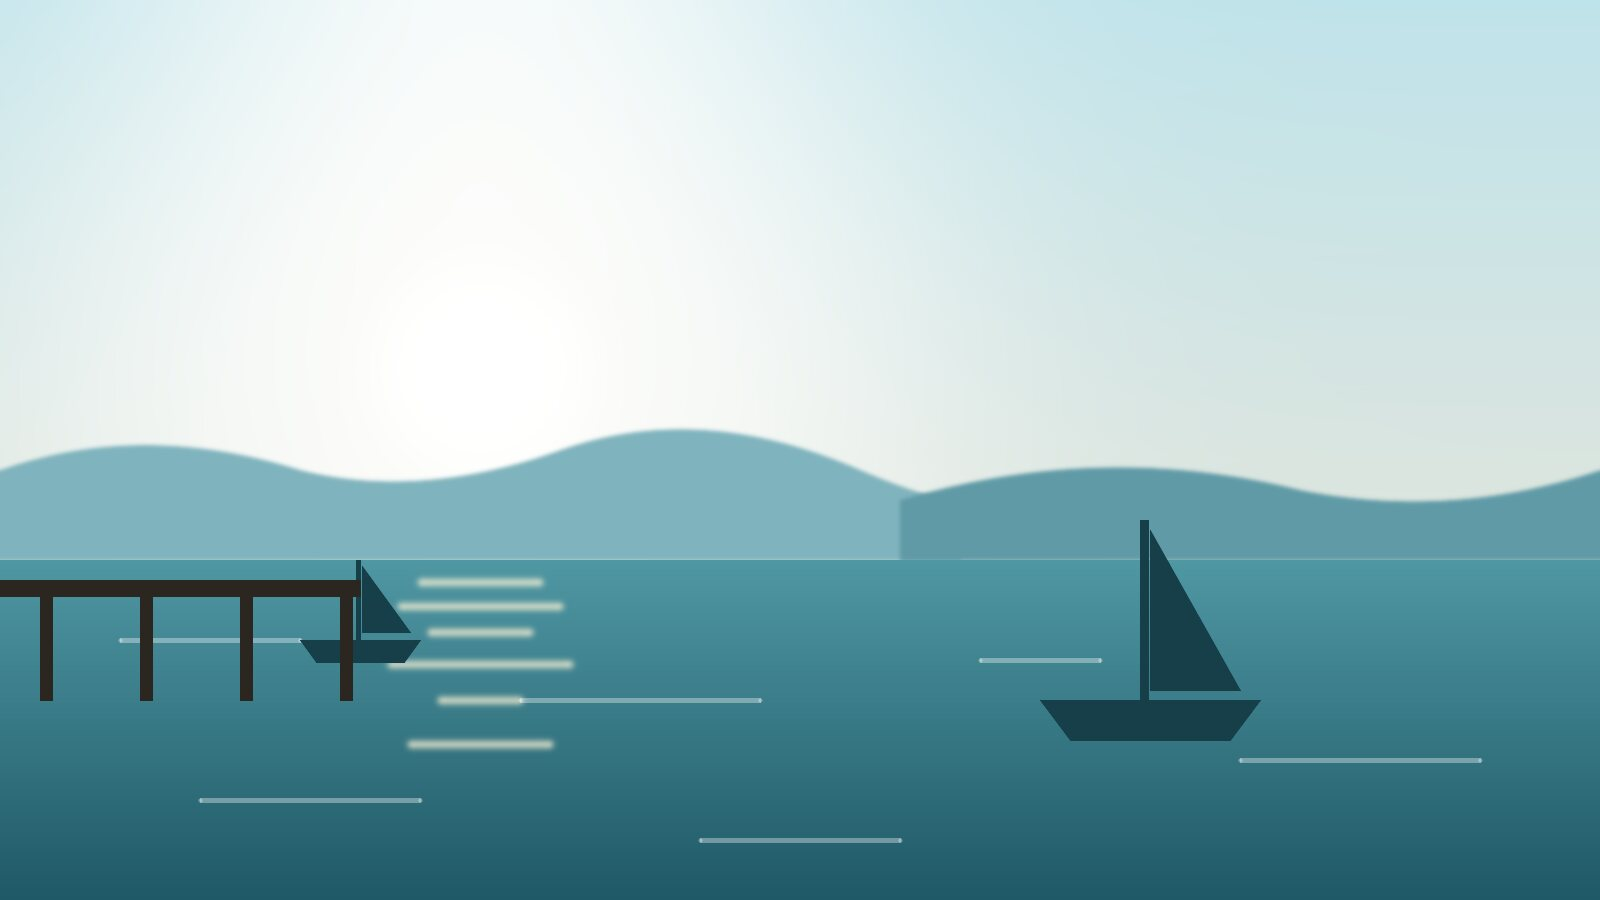
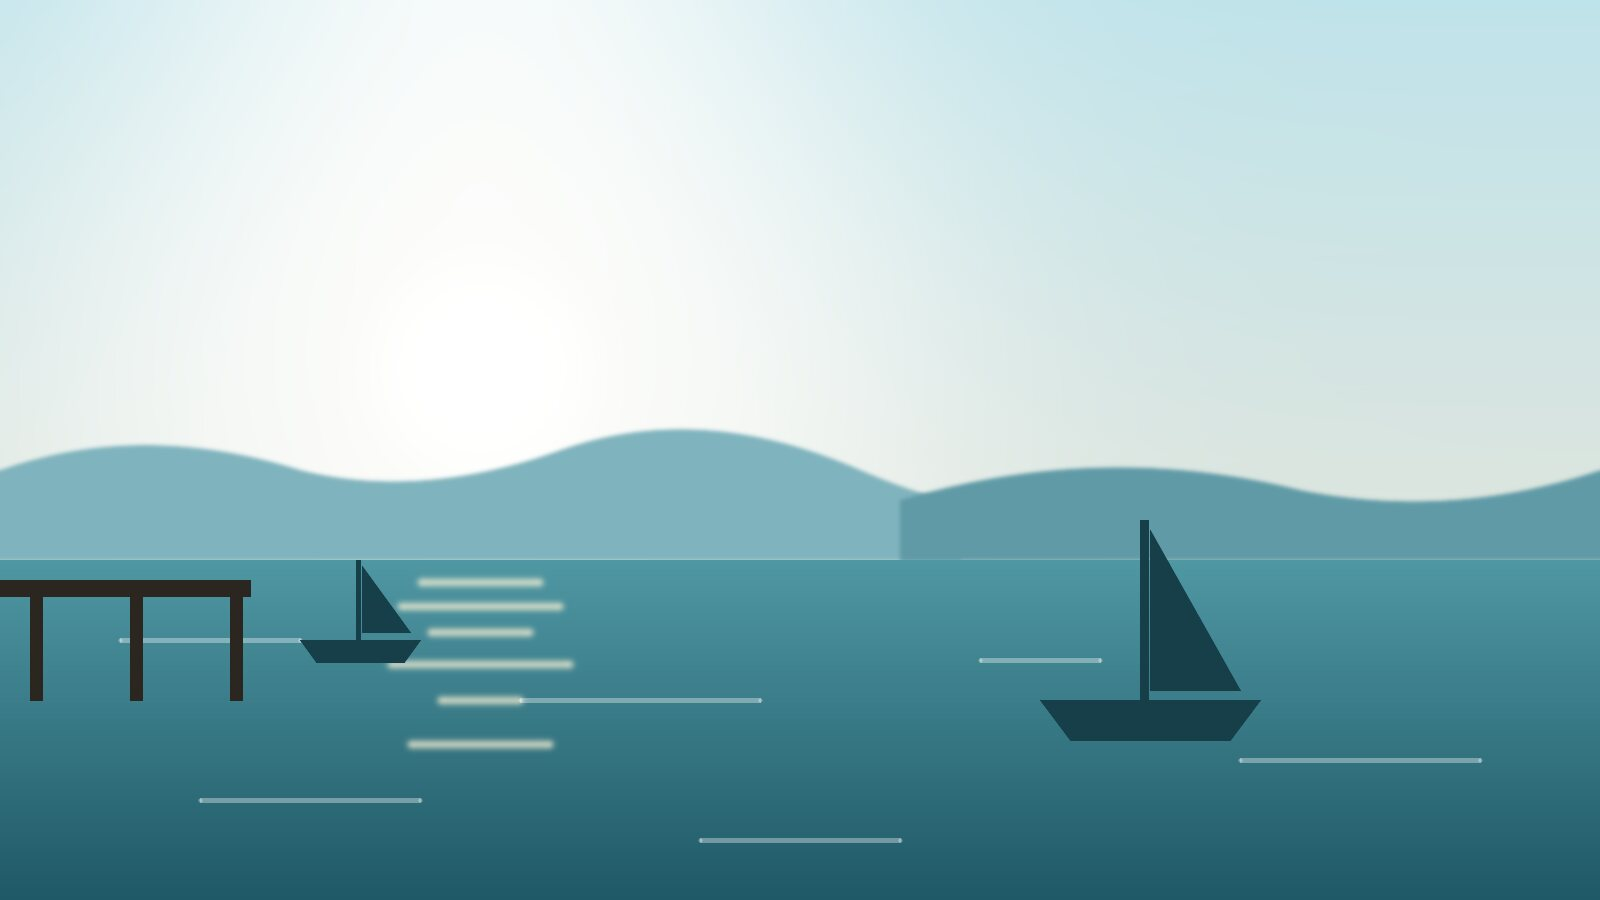
fix: load the preview agent as a module script

Changed region(s): [[0.125, 0.6222, 0.25, 0.7778], [0.0625, 0.6533, 0.0938, 0.7778], [0.0, 0.6533, 0.0312, 0.7778]]

diff --git a/fixtures/sites/harbor-bakery/css/styles.css b/fixtures/sites/harbor-bakery/css/styles.css
@@ -96,6 +96,10 @@ h2 {
   font-size: clamp(1.9rem, 3.6vw, 2.75rem);
 }
 
+h2 {
+  text-wrap: balance;
+}
+
 h3 {
   font-size: 1.25rem;
   letter-spacing: -0.01em;
@@ -443,7 +447,8 @@ main > section.hero {
 }
 
 .hero h1 {
-  max-width: 13ch;
+  max-width: 12ch;
+  text-wrap: balance;
 }
 
 .hero .lead {
@@ -458,9 +463,10 @@ main > section.hero {
 }
 
 .hero-stats {
-  display: flex;
-  flex-wrap: wrap;
-  gap: 16px 36px;
+  display: grid;
+  grid-template-columns: repeat(3, auto);
+  justify-content: start;
+  gap: 16px clamp(20px, 4vw, 40px);
   margin: 40px 0 0;
   padding: 0;
   list-style: none;
@@ -1165,8 +1171,8 @@ main > section.page-hero {
 
 @media (min-width: 960px) {
   .hero-grid {
-    grid-template-columns: 1.05fr 1fr;
-    gap: 64px;
+    grid-template-columns: 1fr 1.12fr;
+    gap: 56px;
   }
 
   .card-grid,

diff --git a/src/document.rs b/src/document.rs
@@ -477,7 +477,7 @@ impl Document {
                 .tree
                 .orphan(new_element(
                     "script",
-                    &[("src", agent_src), ("data-pagehaven", "agent")],
+                    &[("type", "module"), ("src", agent_src), ("data-pagehaven", "agent")],
                 ))
                 .id();
             self.html
